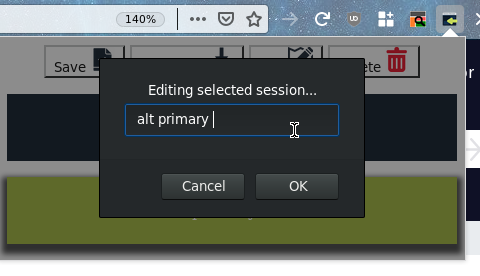
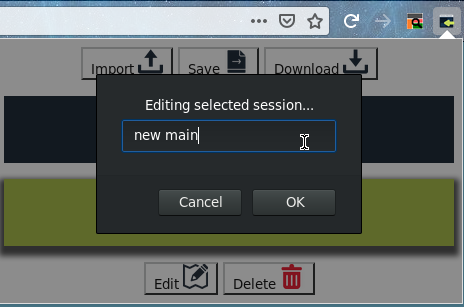
Added import feature.

diff --git a/src/pages/import.html b/src/pages/import.html
@@ -1,0 +1,57 @@
+<!DOCTYPE html>
+<html>
+<head>
+    <meta charset="utf-8">
+    <title>Easy Session Manager Import</title>
+    <link rel="shortcut icon" href="../images/icons/import.png">
+
+<style media="screen">
+
+body, html {
+    width: 100%;
+    height: 100%;
+    padding: 0em;
+    margin: 0em;
+}
+
+#inputId {
+    display: none;
+}
+
+#lableTag {
+    top: 48%;
+    margin: 0 auto;
+    color: rgba(255, 255, 255, 0.5);
+}
+
+.container {
+    width: 100%;
+    height: 100%;
+    background-image: url('../images/icons/import.png');
+    background-repeat: no-repeat;
+    background-position: center;
+    text-align: center;
+    background-color: rgba(41, 95, 115, 0.85);
+}
+
+.container:hover {
+    transition: 4;
+    background-color: rgba(41, 95, 115, 0.65);
+    cursor: pointer;
+}
+
+</style>
+
+</head>
+<body>
+
+    <div class="container" name="import">
+        <h1 id="lableTag">Select File</h1>
+        <input id="inputId" type="file" accept="application/json"/>
+    </div>
+
+
+<script src="../scripts/background.js"></script>
+
+</body>
+</html>

diff --git a/src/pages/sessionManager.html b/src/pages/sessionManager.html
@@ -7,12 +7,23 @@
 <body>
 
 <center>
+
+    <button type="button" name="import">
+        Import <img class="icon" src="../images/icons/import.png" alt="Import JSON"/>
+        <input id="inputId" type="file" />
+    </button>
+
     <button type="button" name="save">
         Save <img class="icon" src="../images/icons/save.png" alt="Save Image"/>
     </button>
     <button type="button" name="download">
         Download <img class="icon" src="../images/icons/download.png" alt="Download Image"/>
     </button>
+
+    <div id="savedSessions">
+
+    </div>
+
     <button type="button" name="edit">
         Edit <img class="icon" src="../images/icons/edit.png" alt="Edit Image"/>
     </button>
@@ -20,10 +31,6 @@
     <button type="button" name="delete">
         Delete <img class="icon" src="../images/icons/delete.png" alt="Delete Image"/>
     </button>
-
-    <div id="savedSessions">
-
-    </div>
 </center>
 
 

diff --git a/src/scripts/background.js b/src/scripts/background.js
@@ -1,0 +1,23 @@
+document.getElementById("inputId").onchange = (e) => {
+    var reader = new FileReader();
+    reader.onloadend = function(obj){
+        let data       = obj.target.result;
+        let enteryName = prompt("What is this session's name?", "" + new Date().toLocaleString()
+                                                                               .split(',')[0]);
+        if (enteryName) {
+            browser.storage.local.set({[enteryName]: data});
+        }
+    };
+
+    if (e.target.files[0].type == "application/json")
+        reader.readAsText(e.target.files[0], {encoding: "string"});
+};
+
+
+document.addEventListener("click", (e) => {
+    if (e.button == 0) {  // Left click
+        if (e.target.className == "container") {
+            document.getElementById("inputId").click();
+        }
+    }
+});

diff --git a/src/scripts/sessionManager.js b/src/scripts/sessionManager.js
@@ -37,6 +37,13 @@ const saveToStorage = (name, data) => {
     storage.set({[name]: data});
 }
 
+const importSession = () => {
+    browser.tabs.create({
+      url: browser.extension.getURL("../pages/import.html"),
+      active: true
+    });
+}
+
 const downloadSession = () => {
     var dlAnchorElem = document.getElementById('downloadAnchorElem');
     let id           = selectedItem.innerHTML;

diff --git a/src/scripts/events.js b/src/scripts/events.js
@@ -17,6 +17,8 @@ document.addEventListener("click", (e) => {
             }
         } else if (e.target.name == "save") {
             saveSession();
+        } else if (e.target.name == "import") {
+            importSession();
         } else if (selectedItem) {
             if (e.target.name == "download")
                 downloadSession();

diff --git a/src/styles/styles.css b/src/styles/styles.css
@@ -19,6 +19,10 @@ button {
     color: #000000;
 }
 
+#inputId {
+    display: none;
+}
+
 .selected {
     background-color: #a3b83b;
     box-shadow: 0px 5px 5px 5px #444444;

diff --git a/README.md b/README.md
@@ -4,8 +4,8 @@ Easy Session Manager allows you to manage your Firefox session by backing up or 
 # Download
 https://addons.mozilla.org/en-US/firefox/addon/easy-session-manager/
 
-# Version: 0.0.1
-Released Program
+# Version: 0.0.2
+Added import functionality for json.
 
 # Images
 ![1 Default interface with no sessions. ](images/pic1.png)
@@ -15,3 +15,4 @@ Released Program
 ![5 Deleting a selected session. ](images/pic5.png)
 ![6 Editing a selected session. ](images/pic6.png)
 ![7 Downloading a selected session. ](images/pic7.png)
+![8 Importiog a session json file. ](images/pic7.png)
